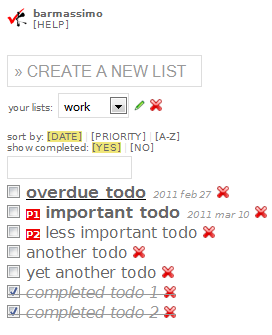
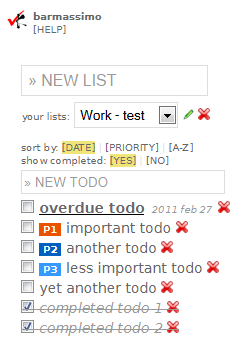
added repeated todos import from RTM atom url instead of atom xml changed notification message position css fix

diff --git a/static/js/jquery/spinner/ui.spinner.min.js b/static/js/jquery/spinner/ui.spinner.min.js
@@ -1,0 +1,22 @@
+/*
+ jQuery UI Spinner 1.20
+
+ Copyright (c) 2009-2010 Brant Burnett
+ Dual licensed under the MIT or GPL Version 2 licenses.
+*/
+(function(j){var s="ui-state-active",l=j.ui.keyCode,C=l.UP,D=l.DOWN,t=l.RIGHT,E=l.LEFT,u=l.PAGE_UP,v=l.PAGE_DOWN,J=l.HOME,K=l.END,L=j.browser.msie,M=j.browser.mozilla?"DOMMouseScroll":"mousewheel",N=[C,D,t,E,u,v,J,K,l.BACKSPACE,l.DELETE,l.TAB],O;j.widget("ui.spinner",{options:{min:null,max:null,allowNull:false,group:"",point:".",prefix:"",suffix:"",places:null,defaultStep:1,largeStep:10,mouseWheel:true,increment:"slow",className:null,showOn:"always",width:16,upIconClass:"ui-icon-triangle-1-n",downIconClass:"ui-icon-triangle-1-s",
+format:function(a,b){var d=/(\d+)(\d{3})/,g=(isNaN(a)?0:Math.abs(a)).toFixed(b)+"";for(g=g.replace(".",this.point);d.test(g)&&this.group;g=g.replace(d,"$1"+this.group+"$2"));return(a<0?"-":"")+this.prefix+g+this.suffix},parse:function(a){if(this.group==".")a=a.replace(".","");if(this.point!=".")a=a.replace(this.point,".");return parseFloat(a.replace(/[^0-9\-\.]/g,""))}},_create:function(){var a=this.element,b=a.attr("type");if(!a.is("input")||b!="text"&&b!="number")console.error("Invalid target for ui.spinner");
+else{this._procOptions(true);this._createButtons(a);a.is(":enabled")||this.disable()}},_createButtons:function(a){function b(e){return e=="auto"?0:parseInt(e)}function d(e){for(var h=0;h<N.length;h++)if(N[h]==e)return true;return false}function g(e,h){if(F)return false;var m=String.fromCharCode(h||e),o=c.options;if(m>="0"&&m<="9"||m=="-")return false;if(c.places>0&&m==o.point||m==o.group)return false;return true}function i(e){function h(){w=0;e()}if(w){if(e===P)return;clearTimeout(w)}P=e;w=setTimeout(h,
+100)}function p(){if(!f.disabled){var e=c.element[0],h=this===x?1:-1;e.focus();e.select();j(this).addClass(s);G=true;c._startSpin(h)}return false}function q(){if(G){j(this).removeClass(s);c._stopSpin();G=false}return false}var c=this,f=c.options,r=f.className,y=f.width,n=f.showOn,H=j.support.boxModel,Q=a.outerHeight(),R=c.oMargin=b(a.css("margin-right")),I=c.wrapper=a.css({width:(c.oWidth=H?a.width():a.outerWidth())-y,marginRight:R+y,textAlign:"right"}).after('<span class="ui-spinner ui-widget"></span>').next(),
+z=c.btnContainer=j('<div class="ui-spinner-buttons"><div class="ui-spinner-up ui-spinner-button ui-state-default ui-corner-tr"><span class="ui-icon '+f.upIconClass+'">&nbsp;</span></div><div class="ui-spinner-down ui-spinner-button ui-state-default ui-corner-br"><span class="ui-icon '+f.downIconClass+'">&nbsp;</span></div></div>'),x,S,k,w,P,A,B,F,G,T=a[0].dir=="rtl";r&&I.addClass(r);I.append(z.css({height:Q,left:-y-R,top:a.offset().top-I.offset().top+"px"}));k=c.buttons=z.find(".ui-spinner-button");
+k.css({width:y-(H?k.outerWidth()-k.width():0),height:Q/2-(H?k.outerHeight()-k.height():0)});x=k[0];S=k[1];r=k.find(".ui-icon");r.css({marginLeft:(k.innerWidth()-r.width())/2,marginTop:(k.innerHeight()-r.height())/2});z.width(k.outerWidth());n!="always"&&z.css("opacity",0);if(n=="hover"||n=="both")k.add(a).bind("mouseenter.uispinner",function(){i(function(){A=true;if(!c.focused||n=="hover")c.showButtons()})}).bind("mouseleave.uispinner",function(){i(function(){A=false;if(!c.focused||n=="hover")c.hideButtons()})});
+k.hover(function(){c.buttons.removeClass("ui-state-hover");f.disabled||j(this).addClass("ui-state-hover")},function(){j(this).removeClass("ui-state-hover")}).mousedown(p).mouseup(q).mouseout(q);L&&k.dblclick(function(){if(!f.disabled){c._change();c._doSpin((this===x?1:-1)*f.step)}return false}).bind("selectstart",function(){return false});a.bind("keydown.uispinner",function(e){var h,m,o=e.keyCode;if(e.ctrl||e.alt)return true;if(d(o))F=true;if(B)return false;switch(o){case C:case u:h=1;m=o==u;break;
+case D:case v:h=-1;m=o==v;break;case t:case E:h=o==t^T?1:-1;break;case J:e=c.options.min;e!=null&&c._setValue(e);return false;case K:e=c.options.max;e!=null&&c._setValue(e);return false}if(h){if(!B&&!f.disabled){keyDir=h;j(h>0?x:S).addClass(s);B=true;c._startSpin(h,m)}return false}}).bind("keyup.uispinner",function(e){if(e.ctrl||e.alt)return true;if(d(l))F=false;switch(e.keyCode){case C:case t:case u:case D:case E:case v:k.removeClass(s);c._stopSpin();return B=false}}).bind("keypress.uispinner",function(e){if(g(e.keyCode,
+e.charCode))return false}).bind("change.uispinner",function(){c._change()}).bind("focus.uispinner",function(){function e(){c.element.select()}L?e():setTimeout(e,0);c.focused=true;O=c;if(!A&&(n=="focus"||n=="both"))c.showButtons()}).bind("blur.uispinner",function(){c.focused=false;if(!A&&(n=="focus"||n=="both"))c.hideButtons()})},_procOptions:function(a){var b=this.element,d=this.options,g=d.min,i=d.max,p=d.step,q=d.places,c=-1,f;if(d.increment=="slow")d.increment=[{count:1,mult:1,delay:250},{count:3,
+mult:1,delay:100},{count:0,mult:1,delay:50}];else if(d.increment=="fast")d.increment=[{count:1,mult:1,delay:250},{count:19,mult:1,delay:100},{count:80,mult:1,delay:20},{count:100,mult:10,delay:20},{count:0,mult:100,delay:20}];if(g==null&&(f=b.attr("min"))!=null)g=parseFloat(f);if(i==null&&(f=b.attr("max"))!=null)i=parseFloat(f);if(!p&&(f=b.attr("step"))!=null)if(f!="any"){p=parseFloat(f);d.largeStep*=p}d.step=p=p||d.defaultStep;if(q==null&&(f=p+"").indexOf(".")!=-1)q=f.length-f.indexOf(".")-1;this.places=
+q;if(i!=null&&g!=null){if(g>i)g=i;c=Math.max(Math.max(c,d.format(i,q,b).length),d.format(g,q,b).length)}if(a)this.inputMaxLength=b[0].maxLength;f=this.inputMaxLength;if(f>0){c=c>0?Math.min(f,c):f;f=Math.pow(10,c)-1;if(i==null||i>f)i=f;f=-(f+1)/10+1;if(g==null||g<f)g=f}c>0&&b.attr("maxlength",c);d.min=g;d.max=i;this._change();b.unbind(M+".uispinner");d.mouseWheel&&b.bind(M+".uispinner",this._mouseWheel)},_mouseWheel:function(a){var b=j.data(this,"spinner");if(!b.options.disabled&&b.focused&&O===b){b._change();
+b._doSpin(((a.wheelDelta||-a.detail)>0?1:-1)*b.options.step);return false}},_setTimer:function(a,b,d){function g(){i._spin(b,d)}var i=this;i._stopSpin();i.timer=setInterval(g,a)},_stopSpin:function(){if(this.timer){clearInterval(this.timer);this.timer=0}},_startSpin:function(a,b){var d=this.options.increment;this._change();this._doSpin(a*(b?this.options.largeStep:this.options.step));if(d&&d.length>0){this.incCounter=this.counter=0;this._setTimer(d[0].delay,a,b)}},_spin:function(a,b){var d=this.options.increment,
+g=d[this.incCounter];this._doSpin(a*g.mult*(b?this.options.largeStep:this.options.step));this.counter++;if(this.counter>g.count&&this.incCounter<d.length-1){this.counter=0;g=d[++this.incCounter];this._setTimer(g.delay,a,b)}},_doSpin:function(a){var b=this.curvalue;if(b==null)b=(a>0?this.options.min:this.options.max)||0;this._setValue(b+a)},_parseValue:function(){var a=this.element.val();return a?this.options.parse(a,this.element):null},_validate:function(a){var b=this.options,d=b.min,g=b.max;if(a==
+null&&!b.allowNull)a=this.curvalue!=null?this.curvalue:d||g||0;return g!=null&&a>g?g:d!=null&&a<d?d:a},_change:function(){var a=this._parseValue();if(!this.selfChange){if(isNaN(a))a=this.curvalue;this._setValue(a,true)}},_setOption:function(a,b){j.Widget.prototype._setOption.call(this,a,b);this._procOptions()},increment:function(){this._doSpin(this.options.step)},decrement:function(){this._doSpin(-this.options.step)},showButtons:function(a){var b=this.btnContainer.stop();a?b.css("opacity",1):b.fadeTo("fast",
+1)},hideButtons:function(a){var b=this.btnContainer.stop();a?b.css("opacity",0):b.fadeTo("fast",0);this.buttons.removeClass("ui-state-hover")},_setValue:function(a,b){this.curvalue=a=this._validate(a);this.element.val(a!=null?this.options.format(a,this.places,this.element):"");if(!b){this.selfChange=true;this.element.change();this.selfChange=false}},value:function(a){if(arguments.length){this._setValue(a);return this.element}return this.curvalue},enable:function(){this.buttons.removeClass("ui-state-disabled");
+this.element[0].disabled=false;j.Widget.prototype.enable.call(this)},disable:function(){this.buttons.addClass("ui-state-disabled").removeClass("ui-state-hover");this.element[0].disabled=true;j.Widget.prototype.disable.call(this)},destroy:function(){this.wrapper.remove();this.element.unbind(".uispinner").css({width:this.oWidth,marginRight:this.oMargin});j.Widget.prototype.destroy.call(this)}})})(jQuery);

diff --git a/templates/todo/todo_edit.html b/templates/todo/todo_edit.html
@@ -1,17 +1,50 @@
-<select id="edit_todo_priority" name="edit_todo_priority" >
-    <option value="4" {% if todo.priority = 4 %}selected="selected"{% endif %}> - </option>
-    <option value="1" {% if todo.priority = 1 %}selected="selected"{% endif %}>P1</option>
-    <option value="2" {% if todo.priority = 2 %}selected="selected"{% endif %}>P2</option>
-    <option value="3" {% if todo.priority = 3 %}selected="selected"{% endif %}>P3</option>
-</select>
-<input type="text" value="{{todo.description}}" id="edit_todo_description" name="edit_todo_description" />
-<br/>
-&nbsp;&nbsp;&nbsp;&nbsp;<input type="text" value="{{todo.due_date|date:'Y/m/d'}}" id="edit_todo_due_date" name="edit_todo_due_date" />
-<select id="edit_todo_list_id" name="edit_todo_list_id" >
-{% for l in lists %}
-    <option value="{{l.id}}" {% if todo.list.id = l.id%}selected="selected"{% endif %}>{{l.name}}</option>
-{% endfor %} 
-</select>
+<span class="small">Edit todo "{{ todo.description|truncatewords:5 }}"</span>
+<div style="float:left;height:120px; border:1px solid #aaa">
+<span style="float:left;margin:3px;">
+    <span class="small">priority</span><br/>
+    <select id="edit_todo_priority" name="edit_todo_priority" >
+        <option value="4" {% if todo.priority = 4 %}selected="selected"{% endif %}> - </option>
+        <option value="1" {% if todo.priority = 1 %}selected="selected"{% endif %}>P1</option>
+        <option value="2" {% if todo.priority = 2 %}selected="selected"{% endif %}>P2</option>
+        <option value="3" {% if todo.priority = 3 %}selected="selected"{% endif %}>P3</option>
+    </select>
+</span>
+
+<span style="float:left;margin:3px;">
+    <span class="small">description</span><br/>
+    <input type="text" value="{{todo.description}}" id="edit_todo_description" name="edit_todo_description" />
+</span>
+
+<span style="float:left;margin:3px;">
+    <span class="small">list</span><br/>
+    <select id="edit_todo_list_id" name="edit_todo_list_id" >
+    {% for l in lists %}
+        <option value="{{l.id}}" {% if todo.list.id = l.id%}selected="selected"{% endif %}>{{l.name}}</option>
+    {% endfor %} 
+    </select>
+</span>
+
+<div style="clear:both"></div>
+
+<span style="float:left;margin:3px;">
+    <span class="small">due date</span><br/>
+    <input type="text" value="{{todo.due_date|date:'Y/m/d'}}" id="edit_todo_due_date" name="edit_todo_due_date" />
+</span>
+
+<span style="float:left;margin:3px;">
+    <span class="small">repeat every</span><br/>
+    <input type="text" size="4" value="{% if todo.repeat_every%}{{todo.repeat_every}}{% endif%}" id="edit_todo_repeat_every" name="edit_todo_repeat_every" />
+    <select id="edit_todo_repeat_type" name="edit_todo_repeat_type" >
+    {% for x in repeat_type_choiches %}
+        <option value="{{x.0}}" {% if todo.repeat_type = x.0%}selected="selected"{% endif %}>{{x.1}}</option>
+    {% endfor %} 
+    </select>    
+</span>
+
 <script type="text/javascript">
     $("#edit_todo_due_date").datepicker({ dateFormat: 'yy/mm/dd', firstDay: 1 });
+   
 </script>
+
+</div>
+<div style="clear:both"></div>

diff --git a/templates/todo/board.html b/templates/todo/board.html
@@ -7,6 +7,8 @@
 <script type="text/javascript" src="{{MEDIA_URL}}js/jquery/hoverintent/jquery.hoverIntent.minified.js"></script> 
 <script type="text/javascript" src="{{MEDIA_URL}}js/jquery/ui/js/jquery-ui-1.8.10.custom.min.js"></script>
 <link href="{{MEDIA_URL}}js/jquery/ui/css/blitzer/jquery-ui-1.8.10.custom.css" rel="stylesheet" type="text/css" />
+<script type="text/javascript" src="{{MEDIA_URL}}js/jquery/spinner/ui.spinner.min.js"></script> 
+<link href="{{MEDIA_URL}}js/jquery/spinner/ui.spinner.css" rel="stylesheet" type="text/css" />
 
 <script type="text/javascript">
 
@@ -349,6 +351,7 @@ var kisstodo_board = (function () {
             $('#edit_todo_description').focus();
             //setTimeout( function(){$('#edit_todo_description').select();}, 20);
             kisstodo_board.unlockGui();
+            $('#edit_todo_repeat_every').spinner({ min: 1, max: 999 });
         });
     }     
     
@@ -367,7 +370,10 @@ var kisstodo_board = (function () {
                     description: $('#edit_todo_description').val(),
                     priority: $('#edit_todo_priority').val(),
                     list_id: $('#edit_todo_list_id').val(),
-                    due_date: $('#edit_todo_due_date').val()
+                    due_date: $('#edit_todo_due_date').val(),
+                    
+                    repeat_type: $('#edit_todo_repeat_type').val(),
+                    repeat_every: $('#edit_todo_repeat_every').val()
                 };
                 
                 $.post("{%url todo.views.todo_edit ''%}"+todo_id, data, function (response) {
@@ -609,10 +615,19 @@ var kisstodo_board = (function () {
 {% block content_headline%}{{ block.super }}{% endblock %}
 
 {% block content %}
-<form method="post" action="." id="add_list_form" onSubmit="return kisstodo_board.add_list()">
-<input class="big" title="&raquo; CREATE A NEW LIST" size="22" autocomplete="off" type="text" id="name" name="name" /></form>
-<div id="list_list" ></div>
-<div id="list_edit_container" ></div>
+
+<form style="_float:left" method="post" action="." id="add_list_form" onSubmit="return kisstodo_board.add_list()">
+<input class="big" title="&raquo; NEW LIST" size="22" autocomplete="off" type="text" id="name" name="name" />
+</form>
+  
+<span id="list_list" ></span>
+<span id="list_edit_container" ></span>
+
+<span class="message" style="height:16px;margin:2px;">
+    <span id="message_text" style="display:none;vertical-align:top;">message</span>
+    <span id="wait" style="display:none;"><img src="{{MEDIA_URL}}img/wait.gif" alt="wait" /></span>
+</span>
+
 <div class="small sort_by">
 sort by: 
 <a href="#" id="sort_mode_D" class="sort_mode selected_link">[DATE]</a><span class="light"> | </span>

diff --git a/templates/todo/todo_item.html b/templates/todo/todo_item.html
@@ -1,7 +1,9 @@
 <span class="todo_item">
     <span class="todo_priority todo_priority_{{ todo.priority }}">{% if todo.priority < 4%}&nbsp;P{{ todo.priority }}&nbsp;{% endif %}</span>
-    <span class="todo_description {% if todo.is_overdue %}overdue{% endif %}{% if todo.is_today%} today{% endif %}"><a href="#">{{ todo.description }}</a></span>
-    <span class="small todo_list_name">{% if todo.due_date %}&nbsp;{{todo.due_date|date:'Y b d'}}{% endif %}{% if show_list %}&nbsp;[{{todo.list.name}}]{% endif %}</span>
+    <span class="todo_description {% if todo.is_overdue %}overdue{% endif %}{% if todo.is_today%} today{% endif %}"><a href="#">{{ todo.description }}</a>
+        <span class="small todo_list_name">{% if todo.due_date %}&nbsp;{{todo.due_date|date:'Y b d'}}{% endif %}{% if todo.repeat_type %}&nbsp;<img alt="undelete" src="{{MEDIA_URL}}img/repeat.png" />{% endif %}{% if show_list %}&nbsp;[{{todo.list.name}}]{% endif %}</span>    
+    </span>
+    
     <span class="no_background">
         <a href="#" class="todo_delete" id="todo_delete_{{todo.id}}"><img alt="delete" src="{{MEDIA_URL}}img/cancel.png" /></a>
         {% if todo.deleted %}<a href="#" class="todo_undelete" id="todo_undelete_{{todo.id}}"><img alt="undelete" src="{{MEDIA_URL}}img/undo.png" /></a>{% endif %}

diff --git a/templates/todo/todo_list.html b/templates/todo/todo_list.html
@@ -2,12 +2,12 @@
     {% if not show_list %}
     <li>
         <form method="post" action="." id="add_todo_form" onSubmit="return kisstodo_board.add_todo()">
-        <input type="text" autocomplete="off" id="description" name="description" />
+        <input type="text" title="&raquo; NEW TODO" autocomplete="off" id="description" name="description" />
         <input type="hidden" value="{{list_id}}" id="list_id" name="list_id" />
         </form>
     </li>
     {% endif %}
-    <script type="text/javascript">$('#name').hint();</script>
+    <script type="text/javascript">$('#name').hint();$('#description').hint();</script>
     {% for t in todos %}  
     <li style="white-space:nowrap;" id="todo_li_{{ t.id }}" class="todo_li {% if t.complete %}complete{% endif %}">
         <input type="checkbox" class="todo_complete" id="todo_complete_{{t.id}}" {% if t.complete %}checked="checked"{% endif %} /> 

diff --git a/templates/todo/base_site.html b/templates/todo/base_site.html
@@ -45,11 +45,6 @@
             {% block content_headline %}{% endblock %}
         </p>
         
-        <div class="message" style="height:16px;margin:2px;">
-            <span id="message_text" style="display:none;vertical-align:top;">message</span>
-            <span id="wait" style="display:none;"><img src="{{MEDIA_URL}}img/wait.gif" alt="wait" /></span>
-        </div>
-        
         <div class="content">
             {% block content %}{% endblock %}
         </div>

diff --git a/static/css/main.css b/static/css/main.css
@@ -4,7 +4,7 @@
 
 body {
     font-family: "Lucida Grande","DejaVu Sans","Bitstream Vera Sans",Verdana,Arial,sans-serif;
-	font-size: 16px;
+	font-size: 14px;
     margin:10px;
 }
 
@@ -188,6 +188,7 @@ ul.todos li {
     width:200px;
     text-align:center;
     font-weight: bold;
+    white-space:nowrap;
 }
 
 .todo_list_name {
@@ -200,5 +201,9 @@ div.ui-datepicker {
 }
 
 .content {
-    width:210px;
+    width:480px;
+}
+
+#description {
+     width:200px;
 }

diff --git a/static/js/jquery/spinner/ui.spinner.css b/static/js/jquery/spinner/ui.spinner.css
@@ -1,0 +1,3 @@
+.ui-spinner {position: relative}
+.ui-spinner-buttons {position: absolute}
+.ui-spinner-button {overflow: hidden}

diff --git a/todo/views.py b/todo/views.py
@@ -103,8 +103,11 @@ def todo_undelete(request):
 def todo_complete(request):
     t=Todo.objects_raw.get(id=int(request.POST['todo_id']))
     _check_permission(t.list)
-    t.complete=not t.complete
+    
+    t.toggle_complete()
+    
     t.save()
+    
     return HttpResponse("", mimetype="text/plain")  
 
 def todo_postpone(request):
@@ -127,12 +130,16 @@ def todo_edit(request, todo_id):
             t.due_date=None
             if request.POST['due_date']: t.due_date=datetime.strptime(request.POST['due_date'],'%Y/%m/%d')
             
+        if 'repeat_type' in request.POST: t.repeat_type=request.POST['repeat_type']
+        if 'repeat_every' in request.POST and request.POST['repeat_every']: t.repeat_every=int(request.POST['repeat_every'])
+        
+
         t.save()
         
         #return HttpResponse("", mimetype="text/plain")  
         return render_to_response('todo/todo_item.html', RequestContext(request, {'todo':t,}))    
     else:
-        return render_to_response('todo/todo_edit.html', RequestContext(request, {'todo':t,'lists':List.objects.filter(owner=_get_current_user())}))
+        return render_to_response('todo/todo_edit.html', RequestContext(request, {'todo':t,'repeat_type_choiches':Todo.repeat_type_choiches,'lists':List.objects.filter(owner=_get_current_user())}))
         
 def list_edit(request, list_id):
     l=List.objects.get(id=int(list_id))
@@ -167,20 +174,27 @@ def import_rtm(request):
     if request.method == 'POST':
         
         form = ImportRtmForm(request.POST)
-        if not form.is_valid(): return HttpResponse("FORM ERROR", mimetype="text/plain")     
+        if not form.is_valid(): return HttpResponse("FORM ERROR", mimetype="text/plain")           
         
-        text = form.cleaned_data['text']
+        url = form.cleaned_data['url']
+        
+        if url == "":
+            for t in Todo.objects_raw.filter(external_source="RememberTheMilk"):
+                if t.list.owner==_get_current_user(): t.delete_raw()
+            return HttpResponse("Empty atom feed received. Cleanup complete.", mimetype="text/plain")  
+            
+        import urllib2
+        text = urllib2.urlopen(url).read()
+        #return HttpResponse(text, mimetype="text/plain")             
         
         from xml.dom import minidom
         from datetime import datetime
         
-        xmldoc = minidom.parseString(text.encode( "utf-8" ));
+        #xmldoc = minidom.parseString(text.encode( "utf-8" ))
+        xmldoc = minidom.parseString(text)
         entries=xmldoc.getElementsByTagName("entry")
         
         out=""
-        
-        for t in Todo.objects_raw.filter(external_source="RememberTheMilk"):
-            if t.list.owner==_get_current_user(): t.delete_raw()
             
         for e in entries: 
         
@@ -191,9 +205,6 @@ def import_rtm(request):
             
             t.external_source = "RememberTheMilk"
             t.external_id = e.getElementsByTagName("id")[0].firstChild.nodeValue
-            
-            
-            
 
             out += 'external_id: "'+e.getElementsByTagName("id")[0].firstChild.nodeValue+'"\n'
             out += "title: "+e.getElementsByTagName("title")[0].firstChild.nodeValue+"\n"
@@ -258,4 +269,6 @@ def _get_current_user():
     return '[anonymous user]'
     
 class ImportRtmForm(forms.Form):
-    text = forms.CharField(widget=forms.Textarea(), label='Atom feed')
+    #text = forms.CharField(widget=forms.Textarea(), label='Atom feed', required=False)
+    url = forms.CharField(label='url', required=False)
+    

diff --git a/todo/models.py b/todo/models.py
@@ -16,7 +16,7 @@
 
 from django.db import models
 from django.db.models import Q
-from datetime import datetime, timedelta
+from datetime import date, datetime, timedelta
 
 class ListManager(models.Manager):
     
@@ -90,7 +90,7 @@ class TodoManager(models.Manager):
         
         #due to a GAE limitation, it is not possibile to filter on list__owner
         return [t for t in deleted if t.list.owner == user]        
-        
+
 class Todo(models.Model):
     description = models.CharField(max_length=5000)
     priority = models.IntegerField(default=4)
@@ -99,8 +99,13 @@ class Todo(models.Model):
     deleted = models.BooleanField(default=False)
     due_date = models.DateTimeField(null=True, blank=True)
     
+    repeat_type_choiches = (('', ' - no repeat - '),    ('d', 'days'),    ('w', 'weeks'),   ('m', 'months'), ('y', 'years'),)
+    
+    repeat_type = models.CharField(max_length=1, choices=repeat_type_choiches, null=True, blank=True)
+    repeat_every = models.IntegerField(null=True, blank=True)
+    
     external_source = models.CharField(max_length=255, blank=True)
-    external_id = models.CharField(max_length=1000, blank=True)    
+    external_id = models.CharField(null=True)    
     
     objects = TodoManager() 
     objects_raw = models.Manager() 
@@ -111,6 +116,23 @@ class Todo(models.Model):
             self.save()
         else:
             self.delete_raw()
+            
+    def toggle_complete(self): 
+         if self.complete:
+            self.complete = False
+         else:
+            if (self.repeat_type and self.repeat_every):
+                today = datetime.now().date()
+                if self.repeat_type=="d":
+                    self.due_date = today + timedelta(days=self.repeat_every)
+                elif self.repeat_type=="w":
+                    self.due_date = today + timedelta(days=self.repeat_every*7)
+                elif self.repeat_type=="m":
+                    self.due_date = today + timedelta(days=self.repeat_every*30)
+                elif self.repeat_type=="y":
+                    self.due_date = date(year=today.year+repeat_every, month=today.month, day=today.day)
+            else:
+                self.complete = True
         
     def undelete(self): 
         self.deleted=False

diff --git a/app_version.py b/app_version.py
@@ -15,7 +15,7 @@
 # along with this program.  If not, see <http://www.gnu.org/licenses/>.
 
 APP_VERSION_MAJOR=1
-APP_VERSION_MINOR=15
-APP_VERSION_FIX=0
+APP_VERSION_MINOR=16
+APP_VERSION_FIX=2
 
 APP_VERSION="%s.%s.%s" % (APP_VERSION_MAJOR, APP_VERSION_MINOR, APP_VERSION_FIX)
